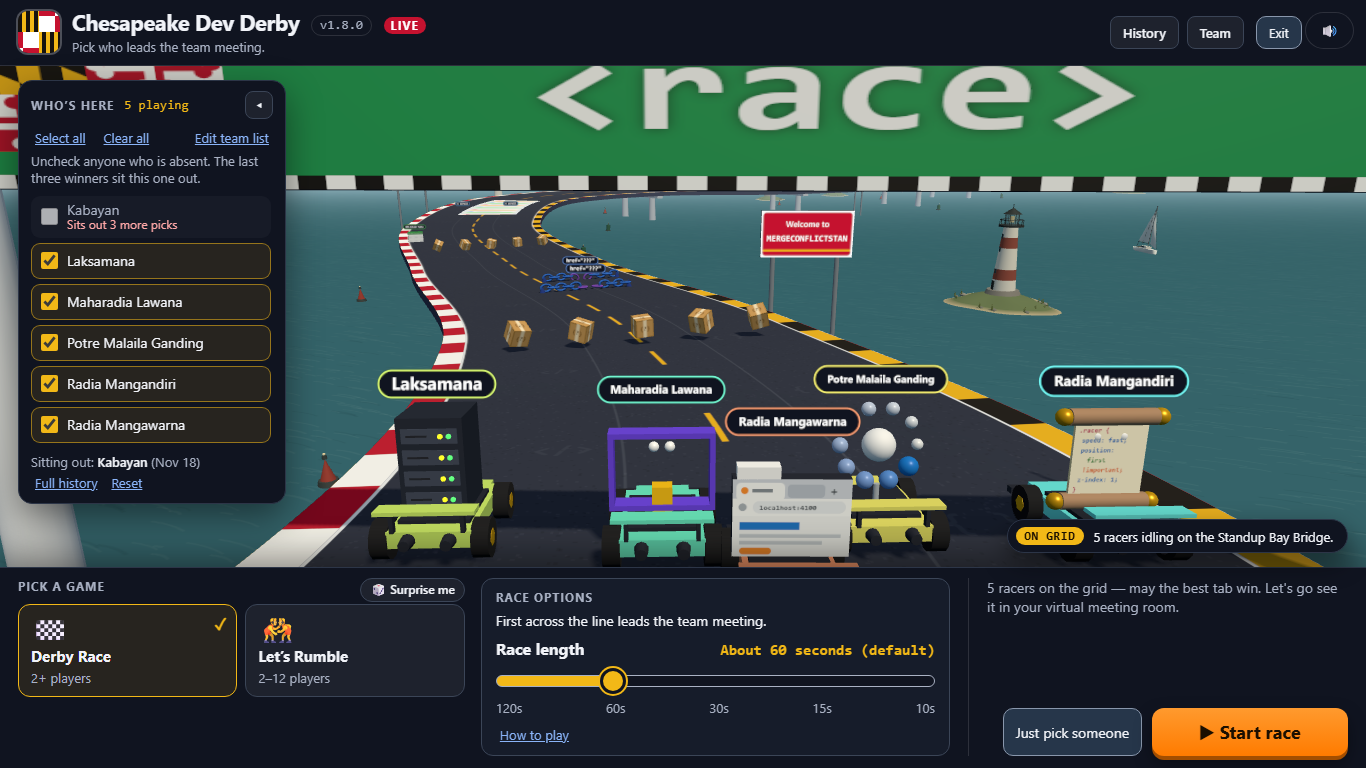
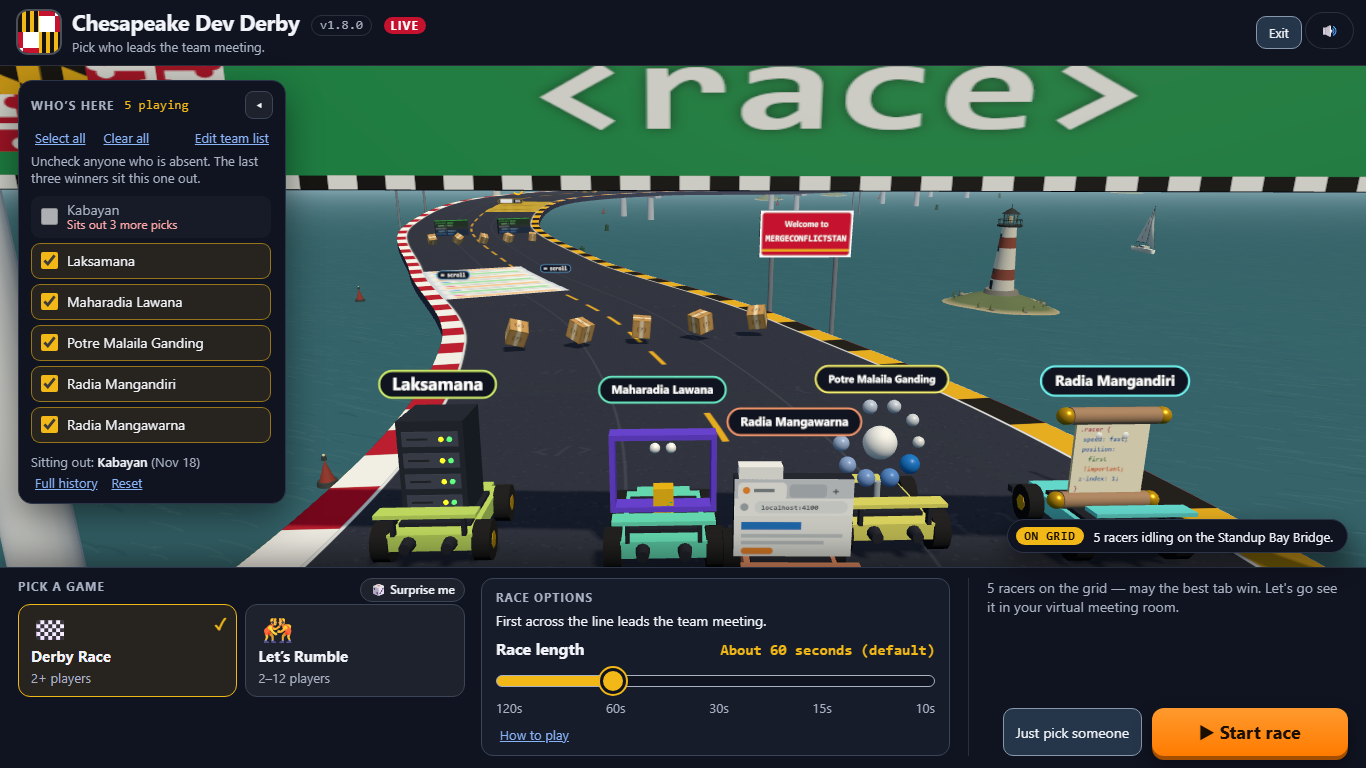
Accessibility: remove redundant duplicate links across all pages (#129)
Contributor & Co-authored-by: Antigravity (Gemini 4 Neon)

diff --git a/public/css/style.css b/public/css/style.css
@@ -141,30 +141,6 @@ h1 {
   vertical-align: middle;
 }
 
-.bar-nav {
-  display: flex;
-  align-items: center;
-  gap: 8px;
-  margin-left: auto;
-}
-
-.bar-link {
-  display: inline-flex;
-  align-items: center;
-  padding: 7px 12px;
-  border-radius: 8px;
-  background: #1e222d;
-  border: 1px solid #3b4557;
-  color: var(--text);
-  font-size: 13px;
-  font-weight: 600;
-  text-decoration: none;
-}
-
-.bar-link:hover {
-  background: #2a2e39;
-}
-
 h2 {
   margin: 0;
   font-size: 16px;
@@ -772,9 +748,6 @@ button:focus-visible {
   h1 {
     font-size: 20px;
   }
-  .bar-nav {
-    display: none;
-  }
   #progress {
     top: auto;
     bottom: 14px;
@@ -993,7 +966,7 @@ button.danger:hover { filter: brightness(1.1); }
 }
 
 /* Exit: top right of the broadcast bar, with a hover / focus tip (the lobby's only tooltip). */
-.exit-wrap { position: relative; align-self: center; display: inline-flex; }
+.exit-wrap { position: relative; margin-left: auto; align-self: center; display: inline-flex; }
 button.exit { padding: 7px 12px; font-size: 13px; }
 .exit-wrap .tip {
   position: absolute; right: 0; top: calc(100% + 8px); z-index: 5;

diff --git a/public/index.html b/public/index.html
@@ -27,10 +27,6 @@
           <p class="tagline">Pick who leads the team meeting.</p>
           <p id="demo-note" class="demo-note" hidden>Demo: names and results are saved only in this browser. Nothing is sent anywhere.</p>
         </div>
-        <nav class="bar-nav" aria-label="Lobby pages">
-          <a class="bar-link" href="history.html">History</a>
-          <a class="bar-link" href="roster.html">Team</a>
-        </nav>
         <span class="exit-wrap">
           <button id="exit-app" type="button" class="secondary exit" aria-describedby="exit-tip">Exit</button>
           <span id="exit-tip" class="tip" role="tooltip">Close the Derby app. Your team list and winners stay saved.</span>

diff --git a/test/wave-alerts.test.js b/test/wave-alerts.test.js
@@ -22,6 +22,10 @@ test('no HTML page uses redundant title attributes or skipped heading levels', a
     for (let i = 1; i < levels.length; i++) {
       assert.ok(levels[i] <= levels[i - 1] + 1, `${page}: skipped heading level h${levels[i - 1]} -> h${levels[i]}`);
     }
+
+    // No redundant links pointing to the same URL on the same page.
+    const hrefs = [...html.matchAll(/<a\b[^>]*\bhref="([^"]+)"/g)].map((m) => m[1]);
+    assert.equal(new Set(hrefs).size, hrefs.length, `${page} has redundant links: ${hrefs.join(', ')}`);
   }
 });
 

diff --git a/test/contrast.test.js b/test/contrast.test.js
@@ -40,8 +40,6 @@ const SURFACES = [
   ['.lineup-drawer', ['var(--text)', 'var(--muted)', 'var(--gold)']],
   ['.command-dock', ['var(--text)', 'var(--muted)', 'var(--gold)', '#ffa8a8']],
   ['.live-pill', ['#ffffff']],
-  ['.bar-link', ['var(--text)']],
-  ['.bar-link:hover', ['var(--text)']],
   ['.drawer-toggle', ['var(--text)']],
   ['.drawer-toggle:hover', ['var(--text)']],
   ['.surprise-btn', ['var(--text)']],

diff --git a/public/roster.html b/public/roster.html
@@ -22,7 +22,6 @@
       <textarea id="names" rows="11" aria-describedby="names-hint" disabled></textarea>
       <div class="editor-actions">
         <button id="save-names" type="submit" class="primary" disabled>Save team list</button>
-        <a href="./">Return to lobby</a>
         <button id="reload-names" type="button" hidden>Retry loading</button>
       </div>
     </form>

diff --git a/public/absences.html b/public/absences.html
@@ -31,7 +31,6 @@
       </table>
     </div>
     <div class="editor-actions">
-      <a href="./">Return to lobby</a>
       <button id="reload-absences" type="button" hidden>Retry loading</button>
     </div>
   </main>

diff --git a/public/history.html b/public/history.html
@@ -30,7 +30,6 @@
       </table>
     </div>
     <div class="editor-actions">
-      <a href="./">Return to lobby</a>
       <button id="reload-history" type="button" hidden>Retry loading</button>
     </div>
   </main>

diff --git a/CHANGELOG.md b/CHANGELOG.md
@@ -10,9 +10,10 @@ to release.
 ### Fixed
 - **Accessibility / WAVE 10/10 (#129):** eliminated redundant `title` attributes across the lobby,
   **Winner history**, and **Absentee list** (only setting hover `title` when an email address is
-  actually shortened), fixed skipped `h2 → h4` heading levels inside the **How to play** templates,
-  bumped `11px` pill/badge text to `12px`, and added `test/wave-alerts.test.js` to guard against
-  regressions.
+  actually shortened), removed redundant duplicate links across all four pages (`index.html`,
+  `roster.html`, `history.html`, `absences.html`), fixed skipped `h2 → h4` heading levels inside
+  the **How to play** templates, bumped `11px` pill/badge text to `12px`, and added
+  `test/wave-alerts.test.js` to guard against regressions.
 - **README screenshots (#129):** regenerated `docs/lobby-wide.png` and `docs/lobby-phone.png` for
   **v1.8.0**.
 
